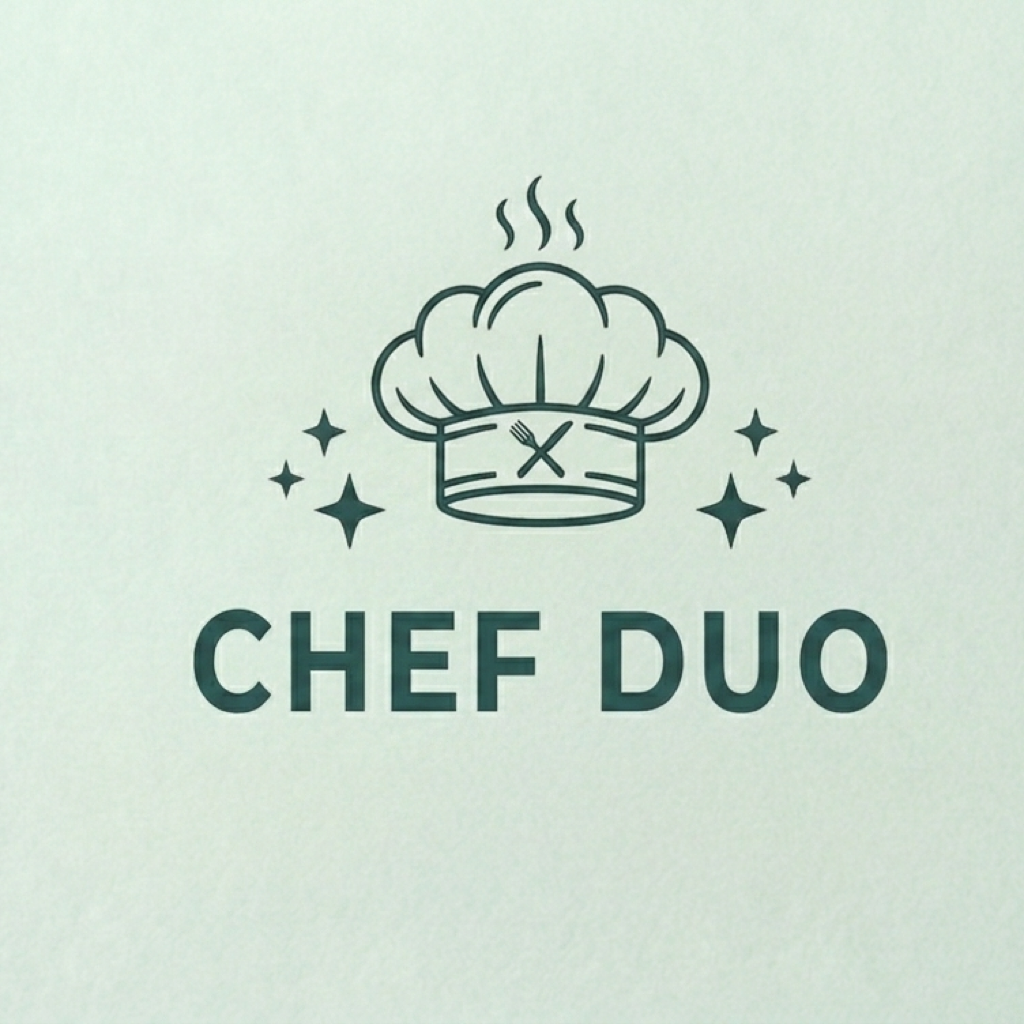
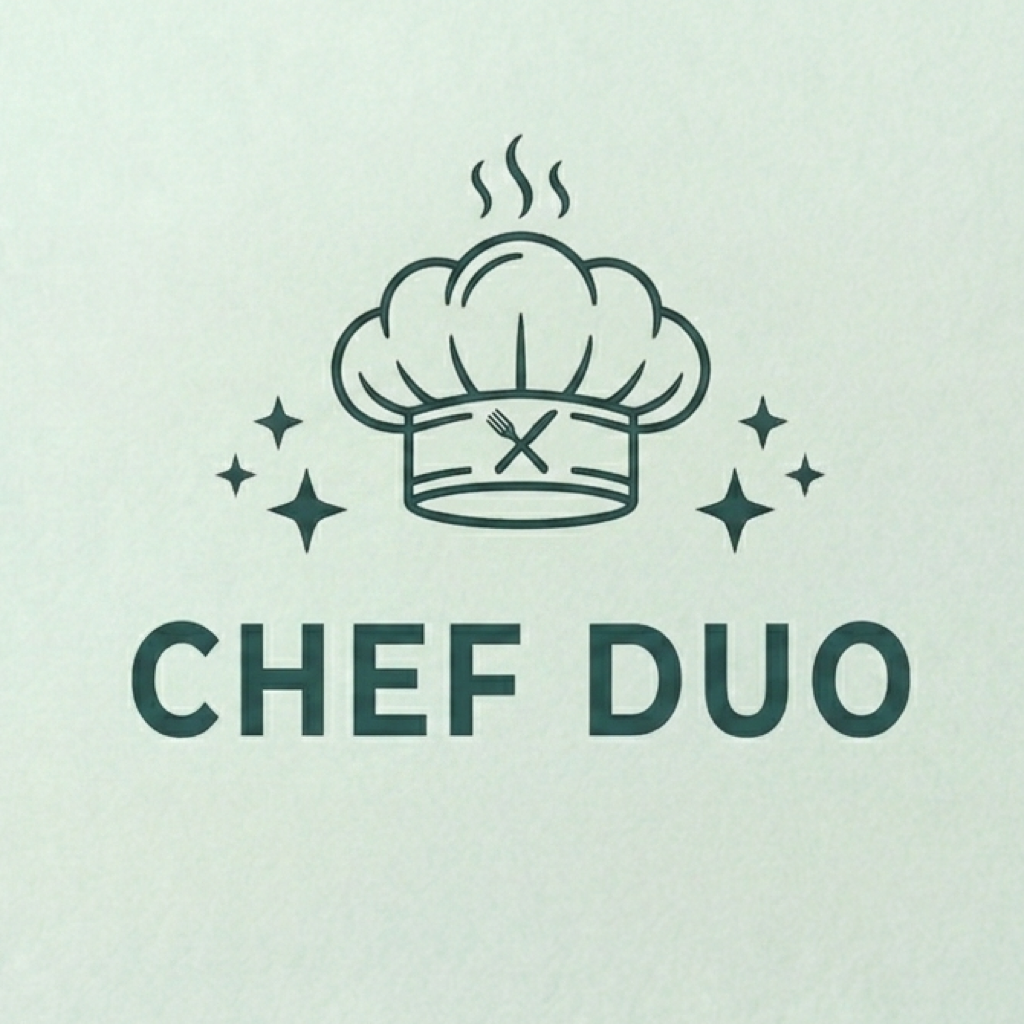
Add files via upload

diff --git a/index.html b/index.html
@@ -33,10 +33,13 @@
     }
 
     .logo {
-      width: 280px;
-      height: auto;
+      width: 260px;
+      height: 260px;
       margin: 0 auto 28px;
       display: block;
+      border-radius: 28px;
+      -webkit-mask-image: radial-gradient(ellipse 80% 80% at center, black 50%, transparent 100%);
+      mask-image: radial-gradient(ellipse 80% 80% at center, black 50%, transparent 100%);
     }
 
     .hero h1 {